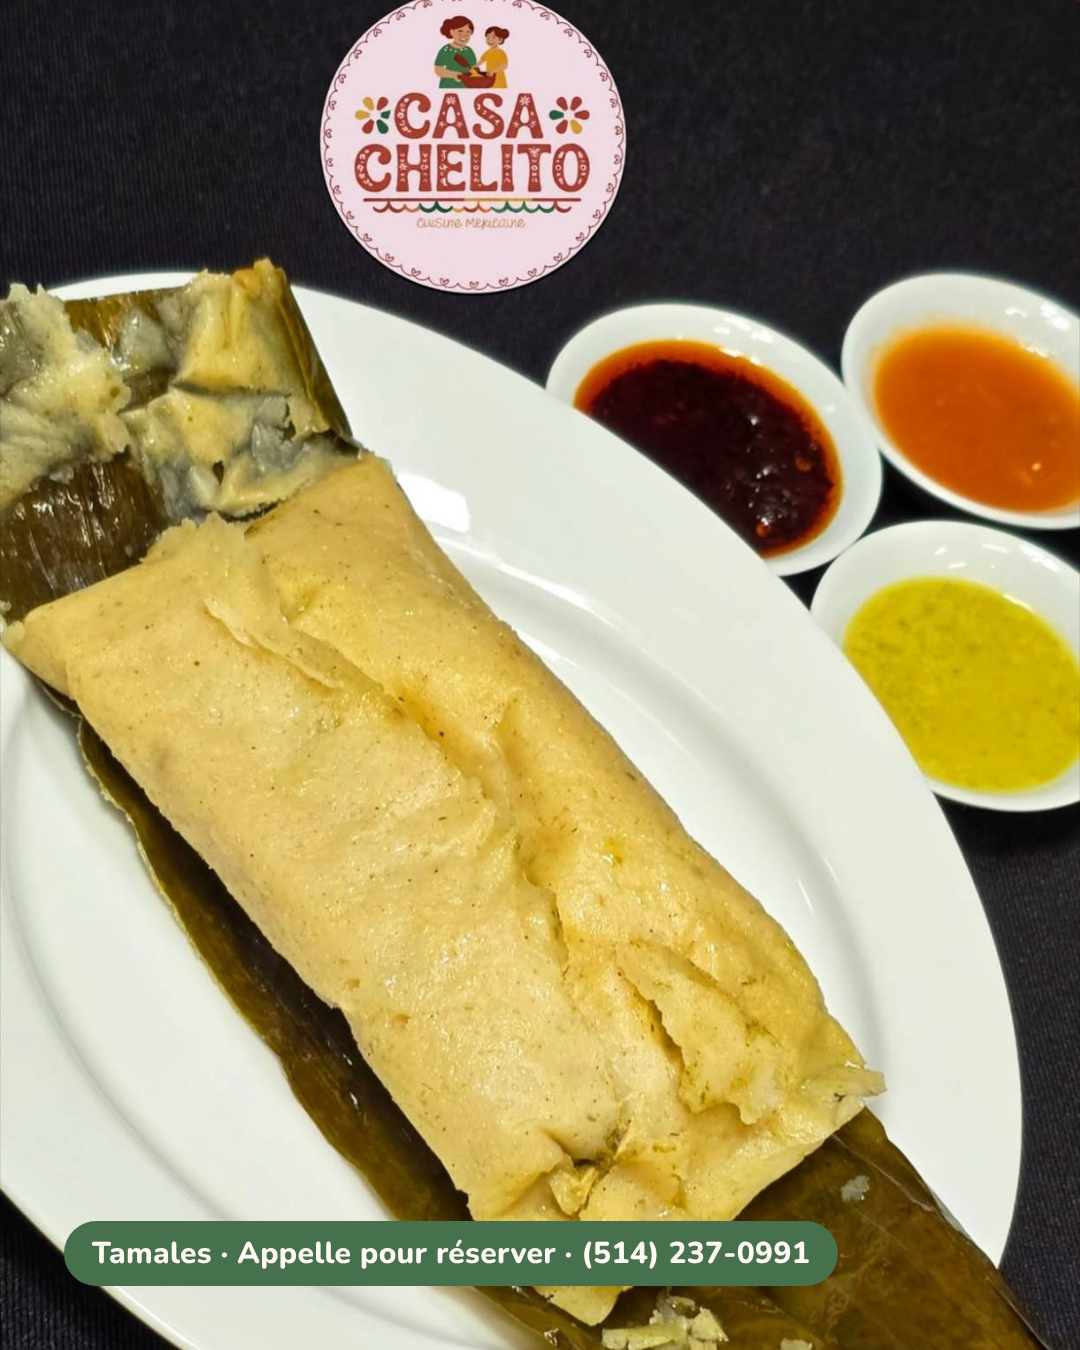
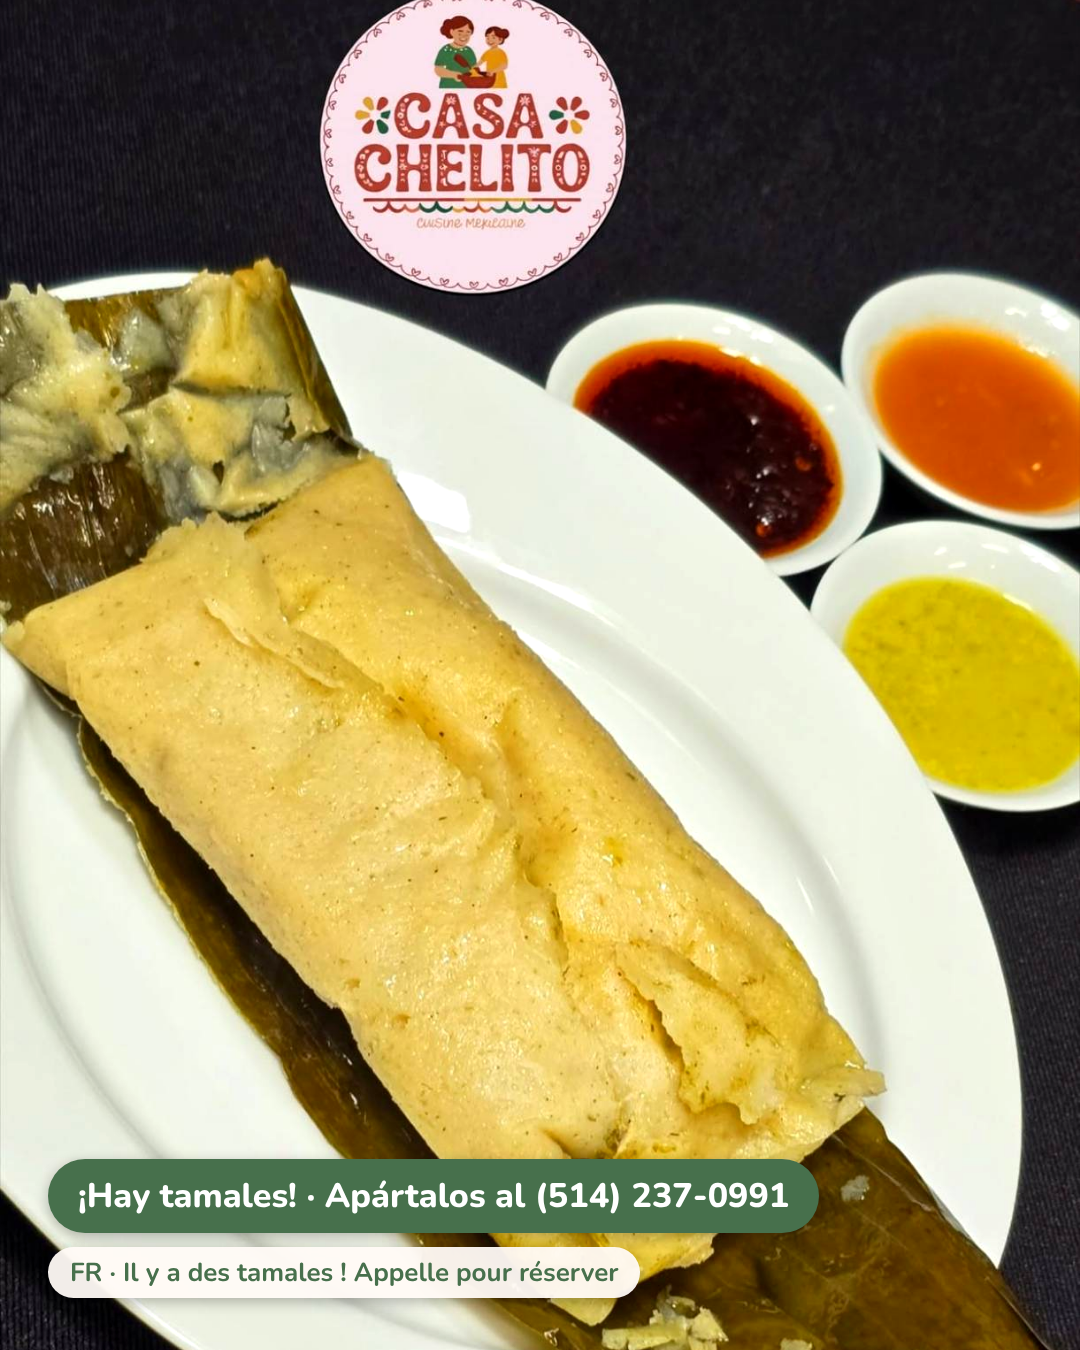
Rediseñar piezas de redes: foto limpia y español primero
Las imágenes ahora usan la foto a pantalla completa con etiquetas
pequeñas encima (sin paneles tipo sitio web), con el español como texto
principal y el francés como nota.

Claude-Session: https://claude.ai/code/session_01UmYvMaUdBeMewG3WqqKD7a

Changed region(s): [[0.0306, 0.84, 0.7944, 0.9644]]

diff --git a/tools/redes.py b/tools/redes.py
@@ -4,7 +4,8 @@
 Uso:  python3 tools/redes.py            → redes/<mes>/*.png
       python3 tools/redes.py paletas    → solo las piezas cuyo nombre contiene "paletas"
 
-Cada pieza es HTML + CSS con las fuentes, colores y fotos del sitio, capturada con
+Cada pieza es la foto a pantalla completa con el texto encima (español primero, francés
+debajo), hecha en HTML + CSS, capturada con
 Chromium (Playwright) a 1080 × 1350 (feed 4:5) o 1080 × 1920 (historia 9:16).
 """
 import json
@@ -22,9 +23,8 @@ FEED = (1080, 1350)
 HISTORIA = (1080, 1920)
 
 TELEFONO = "(514) 237-0991"
-DIRECCION = "7351, rue Jarry Est · Montréal"
-HORARIO_FR = "Lun–sam 10 h–20 h · dim 10 h–19 h"
-HORARIO_ES = "Lun–sáb 10–20 h · dom 10–19 h"
+DIRECCION = "7351 Rue Jarry Est, Montréal"
+HORARIO_ES = "Lunes a sábado 10–20 h · Domingo 10–19 h"
 
 
 def foto(nombre):
@@ -32,208 +32,140 @@ def foto(nombre):
 
 
 LOGO = (SRC / "images" / "logo.png").as_uri()
-PICADO = (SRC / "css" / "papel-picado.svg").as_uri()
 FUENTES = (SRC / "fonts").as_uri()
 
 CSS = f"""
 @font-face {{ font-family: "Lilita One"; src: url("{FUENTES}/lilita-one-latin.woff2"); }}
 @font-face {{ font-family: "Nunito"; src: url("{FUENTES}/nunito-latin.woff2"); font-weight: 400 800; }}
 @font-face {{ font-family: "Pacifico"; src: url("{FUENTES}/pacifico-latin.woff2"); }}
-:root {{
-  --rosa: #ead2df; --rosa-claro: #f7ecf2; --crema: #fffaf6;
-  --rojo: #a64033; --rojo-oscuro: #7a2e24; --verde: #47704c;
-  --mostaza: #e0a23b; --naranja: #e9843e; --naranja-texto: #a84b14; --texto: #4a2620;
-}}
 * {{ box-sizing: border-box; margin: 0; padding: 0; }}
-body {{ background: #333; }}
-.lienzo {{ position: relative; overflow: hidden; font-family: "Nunito", sans-serif; color: var(--texto); }}
-.foto {{ position: absolute; inset: 0; width: 100%; height: 100%; object-fit: cover; }}
-.picado {{ position: absolute; left: 0; right: 0; top: 0; height: 96px;
-  background: url("{PICADO}") repeat-x top left / auto 96px; z-index: 3; }}
-.pill {{ position: absolute; left: 64px; top: 140px; z-index: 4; display: inline-block;
-  background: var(--verde); color: var(--crema); font-weight: 800; font-size: 30px;
-  padding: 12px 28px; border-radius: 999px; letter-spacing: .3px; }}
-.sello {{ position: absolute; right: 44px; bottom: 44px; width: 132px; height: 132px; border-radius: 50%;
-  z-index: 5; box-shadow: 0 6px 18px rgba(0,0,0,.25); background: var(--rosa); }}
-.titulo {{ font-family: "Lilita One", sans-serif; color: var(--rojo); line-height: 1.02; letter-spacing: .5px; }}
-.es {{ font-weight: 700; color: var(--verde); }}
-.script {{ font-family: "Pacifico", cursive; color: var(--naranja-texto); }}
-.puntos {{ width: 180px; height: 14px; margin: 26px 0;
-  background: radial-gradient(circle at 7px 7px, var(--rojo) 6px, transparent 7px) 0 0 / 28px 14px repeat-x; }}
-.panel {{ position: absolute; left: 0; right: 0; bottom: 0; background: var(--rosa); padding: 56px 64px 60px; z-index: 2; }}
-.panel::before {{ content: ""; position: absolute; left: 0; right: 0; top: -1px; height: 0; }}
-.datos {{ font-size: 28px; font-weight: 700; color: var(--rojo-oscuro); }}
-.numero {{ position: absolute; left: 64px; top: 64px; z-index: 4; width: 170px; height: 170px; border-radius: 50%;
-  background: var(--crema); color: var(--rojo); font-family: "Lilita One"; font-size: 120px;
-  display: grid; place-items: center; box-shadow: 0 8px 24px rgba(0,0,0,.3); padding-top: 6px; }}
-.etiqueta {{ position: absolute; left: 64px; bottom: 64px; z-index: 4; background: var(--crema);
-  border-radius: 24px; padding: 22px 32px; box-shadow: 0 8px 24px rgba(0,0,0,.25); }}
-.lista {{ list-style: none; }}
-.lista li {{ display: flex; align-items: baseline; gap: 18px; font-size: 44px; font-weight: 800;
-  padding: 14px 0; border-bottom: 3px dashed rgba(166,64,51,.25); }}
-.lista li span {{ font-size: 30px; font-weight: 700; color: var(--verde); }}
-.marco {{ border: 12px solid var(--crema); border-radius: 36px; overflow: hidden; box-shadow: 0 12px 30px rgba(0,0,0,.2); }}
+body {{ background: #222; }}
+.lienzo {{ position: relative; overflow: hidden; font-family: "Nunito", sans-serif; color: #fff; background: #222; }}
+.foto {{ position: absolute; inset: 0; width: 100%; height: 100%; object-fit: cover;
+  filter: saturate(1.08) contrast(1.04) brightness(1.03); }}
+.sello {{ position: absolute; right: 40px; top: 40px; width: 120px; height: 120px; border-radius: 50%;
+  box-shadow: 0 4px 16px rgba(0,0,0,.3); }}
+.etiquetas {{ position: absolute; left: 48px; right: 48px; bottom: 52px; display: flex; flex-direction: column;
+  align-items: flex-start; gap: 14px; }}
+.pastilla {{ display: inline-block; border-radius: 999px; box-shadow: 0 4px 14px rgba(0,0,0,.28); }}
+.pastilla.verde {{ background: #47704c; color: #fff; font-weight: 800; font-size: 34px; padding: 14px 30px; }}
+.pastilla.nota {{ background: rgba(255,250,246,.95); color: #47704c; font-weight: 700; font-size: 26px; padding: 8px 22px; }}
+.pastilla.roja {{ background: #a64033; color: #fff; font-weight: 800; font-size: 28px; padding: 10px 24px; }}
+.pastilla.titulo {{ background: #fffaf6; color: #a64033; font-family: "Lilita One"; font-size: 72px;
+  line-height: 1.05; padding: 18px 40px 14px; border-radius: 40px; }}
+.pastilla.titulo small {{ display: block; font-family: "Nunito"; font-weight: 700; font-size: 30px; color: #47704c; }}
+.chips {{ display: flex; flex-wrap: wrap; gap: 12px; }}
+.chips span {{ background: rgba(255,250,246,.96); color: #7a2e24; font-weight: 800; font-size: 32px;
+  padding: 9px 22px; border-radius: 999px; box-shadow: 0 3px 10px rgba(0,0,0,.22); }}
+.chips small {{ font-size: 21px; font-weight: 700; color: #47704c; margin-left: 8px; }}
+.numero {{ position: absolute; left: 48px; top: 48px; width: 140px; height: 140px; border-radius: 50%;
+  background: #fffaf6; color: #a64033; font-family: "Lilita One"; font-size: 100px;
+  display: grid; place-items: center; box-shadow: 0 6px 20px rgba(0,0,0,.3); padding-top: 6px; }}
 """
 
 
-def pagina(cuerpo, ancho, alto, fondo="var(--crema)"):
+def pagina(cuerpo, ancho, alto):
     return (f'<!doctype html><html><head><meta charset="utf-8"><style>{CSS}</style></head>'
-            f'<body><div class="lienzo" style="width:{ancho}px;height:{alto}px;background:{fondo}">{cuerpo}</div></body></html>')
+            f'<body><div class="lienzo" style="width:{ancho}px;height:{alto}px">{cuerpo}</div></body></html>')
 
 
 def sello():
     return f'<img class="sello" src="{LOGO}" alt="">'
 
 
+def publicacion(nombre_foto, pos, linea, titulo="", sub="", previa="", chips=None, numero=None, nota="",
+                tamano=FEED, logo=True, abajo=52):
+    """La foto manda: imagen limpia a pantalla completa y etiquetas pequeñas encima.
+
+    titulo/sub → tarjeta crema (español grande, francés pequeño); linea → pastilla verde;
+    previa → pastilla roja arriba de todo; chips → sabores.
+    """
+    partes = []
+    if previa:
+        partes.append(f'<div class="pastilla roja">{previa}</div>')
+    if titulo:
+        partes.append(f'<div class="pastilla titulo">{titulo}' + (f"<small>{sub}</small>" if sub else "") + "</div>")
+    if chips:
+        partes.append('<div class="chips">' + "".join(
+            f"<span>{es}" + (f"<small>{fr}</small>" if fr else "") + "</span>" for es, fr in chips) + "</div>")
+    if linea:
+        partes.append(f'<div class="pastilla verde">{linea}</div>')
+    if nota:
+        partes.append(f'<div class="pastilla nota">{nota}</div>')
+    return pagina(f"""
+      <img class="foto" src="{foto(nombre_foto)}" style="object-position:{pos}">
+      {f'<div class="numero">{numero}</div>' if numero else ""}
+      {sello() if logo else ""}
+      <div class="etiquetas" style="bottom:{abajo}px">{"".join(partes)}</div>""", *tamano)
+
+
 # ---------------------------------------------------------------- Piezas
 
 def carrusel_paletas():
-    """Jue 5 nov · C. Educational · «Les paletas, 101»."""
-    piezas = {}
-    piezas["paletas-101-1-portada"] = pagina(f"""
-      <img class="foto" src="{foto('paletas-fila')}" style="height:880px;object-position:50% 62%">
-      <div class="picado"></div>
-      <div class="pill">Le saviez-vous? · ¿Sabías que…?</div>
-      <div class="panel" style="height:500px">
-        <div class="titulo" style="font-size:132px">Les paletas,<br>101</div>
-        <div class="puntos"></div>
-        <div class="script" style="font-size:46px">Agua, chamoy o crema</div>
-      </div>
-      {sello()}""", *FEED)
-
-    def lamina(n, color, fr, es, nota_fr, nota_es, sabores, foto_nombre, pos):
-        filas = "".join(f"<li>{a}<span>{b}</span></li>" for a, b in sabores)
-        return pagina(f"""
-          <div style="position:absolute;inset:0 0 auto 0;height:14px;background:{color}"></div>
-          <div style="position:absolute;left:64px;top:84px;font-family:'Lilita One';font-size:40px;color:{color}">{n} / 3</div>
-          <div class="titulo" style="position:absolute;left:64px;top:140px;font-size:92px;color:{color}">{fr}</div>
-          <div class="es" style="position:absolute;left:66px;top:248px;font-size:40px">{es}</div>
-          <div style="position:absolute;left:66px;top:318px;width:600px;font-size:31px;line-height:1.35">{nota_fr}<br>
-            <span class="es" style="font-size:27px">{nota_es}</span></div>
-          <ul class="lista" style="position:absolute;left:64px;top:500px;width:560px">{filas}</ul>
-          <div class="marco" style="position:absolute;right:-60px;top:420px;width:470px;height:640px;transform:rotate(3deg)">
-            <img src="{foto(foto_nombre)}" style="width:100%;height:100%;object-fit:cover;object-position:{pos}"></div>
-          {sello()}""", *FEED)
-
-    piezas["paletas-101-2-agua"] = lamina(
-        1, "var(--verde)", "À base d'eau", "Base de agua",
-        "Fruitées et rafraîchissantes.", "Frutales y refrescantes.",
-        [("Mangue", "Mango"), ("Fraise", "Fresa"), ("Tamarin", "Tamarindo"), ("Ananas", "Piña"), ("Lime", "Limón")],
-        "paleta-verde", "45% 50%")
-    piezas["paletas-101-3-chamoy"] = lamina(
-        2, "var(--rojo)", "Avec chamoy", "Con chamoy",
-        "Le chamoy : une sauce sucrée, salée et piquante.", "Dulce, saladito y enchilado.",
-        [("Mangue", "Mango"), ("Ananas", "Piña"), ("Fraise", "Fresa"), ("Tamarin", "Tamarindo"), ("Lime", "Limón")],
-        "paletas-colores", "60% 60%")
-    crema = [("Coco", "Coco"), ("Fraise", "Fresa"), ("Rompope", "Rompope"), ("Pacane", "Nuez"), ("Pistache", "Pistache"),
-             ("Vanille", "Vainilla"), ("Oreo", "Oreo"), ("Chocolat", "Chocolate"), ("Mangue", "Mango")]
-    filas = "".join(f'<li style="font-size:38px;padding:9px 0">{a}<span>{b}</span></li>' for a, b in crema)
-    piezas["paletas-101-4-crema"] = pagina(f"""
-      <div style="position:absolute;inset:0 0 auto 0;height:14px;background:#c25a7c"></div>
-      <div style="position:absolute;left:64px;top:84px;font-family:'Lilita One';font-size:40px;color:#c25a7c">3 / 3</div>
-      <div class="titulo" style="position:absolute;left:64px;top:140px;font-size:92px;color:#b04a6c">À la crème</div>
-      <div class="es" style="position:absolute;left:66px;top:248px;font-size:40px">Base de crema</div>
-      <div style="position:absolute;left:66px;top:318px;width:900px;font-size:31px;line-height:1.35">Onctueuses, comme une crème glacée sur bâton.<br>
-        <span class="es" style="font-size:27px">Cremositas, para los golosos.</span></div>
-      <ul class="lista" style="position:absolute;left:64px;top:470px;width:520px">{filas}</ul>
-      <div class="marco" style="position:absolute;right:-50px;top:470px;width:450px;height:600px;transform:rotate(-3deg)">
-        <img src="{foto('paletas-sobre-congelador')}" style="width:100%;height:100%;object-fit:cover;object-position:35% 50%"></div>
-      {sello()}""", *FEED, fondo="var(--rosa-claro)")
-    piezas["paletas-101-5-cierre"] = pagina(f"""
-      <img class="foto" src="{foto('paletas-acomodadas')}" style="object-position:55% 50%">
-      <div style="position:absolute;inset:0;background:linear-gradient(180deg,rgba(0,0,0,0) 35%,rgba(122,46,36,.92) 75%)"></div>
-      <div style="position:absolute;left:64px;right:64px;bottom:96px;z-index:2;color:var(--crema)">
-        <div class="titulo" style="color:var(--crema);font-size:104px">Laquelle<br>tu essaies?</div>
-        <div style="font-size:44px;font-weight:800;margin:14px 0 30px;color:var(--rosa)">¿Cuál vas a probar?</div>
-        <div style="font-size:30px;font-weight:700">{DIRECCION}<br>{HORARIO_FR}</div>
-      </div>
-      {sello()}""", *FEED)
-    return piezas
+    """Jue 5 nov · C. Educativo · «Paletas 101»."""
+    agua = [("Mango", "mangue"), ("Fresa", "fraise"), ("Tamarindo", "tamarin"), ("Piña", "ananas"), ("Limón", "lime")]
+    crema = [("Coco", ""), ("Fresa", "fraise"), ("Rompope", ""), ("Nuez", "pacane"), ("Pistache", ""),
+             ("Vainilla", "vanille"), ("Oreo", ""), ("Chocolate", "chocolat"), ("Mango", "mangue")]
+    return {
+        "paletas-101-1-portada": publicacion(
+            "paletas-fila", "50% 60%", "Desliza y elige la tuya →",
+            titulo="Paletas 101", sub="De agua, con chamoy o de crema · eau, chamoy ou crème", previa="¿Sabías que…?"),
+        "paletas-101-2-agua": publicacion(
+            "paleta-verde", "45% 50%", "Frutales y refrescantes · fruitées",
+            titulo="De agua", sub="À base d'eau", previa="1 / 3", chips=agua),
+        "paletas-101-3-chamoy": publicacion(
+            "paletas-colores", "55% 55%", "Dulce, saladito y enchilado · sucré, salé, piquant",
+            titulo="Con chamoy", sub="Avec chamoy", previa="2 / 3", chips=agua),
+        "paletas-101-4-crema": publicacion(
+            "paletas-sobre-congelador", "40% 50%", "Cremositas · onctueuses",
+            titulo="De crema", sub="À la crème", previa="3 / 3", chips=crema),
+        "paletas-101-5-cierre": publicacion(
+            "paletas-acomodadas", "55% 50%", DIRECCION, nota=HORARIO_ES,
+            titulo="¿Cuál vas a probar?", sub="Laquelle tu essaies ?"),
+    }
 
 
 def carrusel_conchas():
-    """Jue 12 nov · D. Engagement · «Laquelle en premier?»."""
-    panes = [("concha-con-leche", "62% 70%", "Concha", "classique · clásica"),
-             ("concha-rosa", "35% 40%", "Concha rose", "concha de color"),
-             ("pan-de-muerto-concha", "50% 45%", "Pan de muerto", "con cubierta de concha")]
-    piezas = {}
-    tiras = "".join(f'<div class="marco" style="flex:1;height:620px;transform:rotate({r}deg)">'
-                    f'<img src="{foto(n)}" style="width:100%;height:100%;object-fit:cover;object-position:{p}"></div>'
-                    for (n, p, _, _), r in zip(panes, (-3, 1.5, -1)))
-    piezas["conchas-1-portada"] = pagina(f"""
-      <div class="picado"></div>
-      <div class="pill" style="background:var(--rojo)">Vote · Vota</div>
-      <div class="titulo" style="position:absolute;left:64px;top:230px;font-size:120px">Laquelle<br>en premier?</div>
-      <div class="es" style="position:absolute;left:68px;top:500px;font-size:48px">¿Cuál agarras primero?</div>
-      <div style="position:absolute;left:44px;right:44px;top:610px;display:flex;gap:26px">{tiras}</div>
-      {sello()}""", *FEED, fondo="var(--rosa)")
-    for i, (n, p, fr, es) in enumerate(panes, start=1):
-        piezas[f"conchas-{i + 1}-opcion-{i}"] = pagina(f"""
-          <img class="foto" src="{foto(n)}" style="object-position:{p}">
-          <div class="numero">{i}</div>
-          <div class="etiqueta"><div class="titulo" style="font-size:64px">{fr}</div>
-            <div class="es" style="font-size:32px">{es}</div></div>
-          {sello()}""", *FEED)
-    piezas["conchas-5-cierre"] = pagina(f"""
-      <div class="picado"></div>
-      <div style="position:absolute;inset:0;display:flex;flex-direction:column;justify-content:center;align-items:center;text-align:center;padding:0 80px">
-        <div class="script" style="font-size:52px">Ton café t'attend</div>
-        <div class="titulo" style="font-size:118px;margin:20px 0">Commente<br>1, 2 ou 3</div>
-        <div class="es" style="font-size:46px">Comenta tu número</div>
-        <div class="puntos" style="margin:40px auto"></div>
-        <div class="datos">Résultats vendredi en story · Resultados el viernes</div>
-      </div>
-      {sello()}""", *FEED, fondo="var(--crema)")
+    """Jue 12 nov · D. Interacción · «¿Cuál agarras primero?»."""
+    panes = [("concha-con-leche", "62% 70%", "Concha clásica · la classique"),
+             ("concha-rosa", "35% 40%", "Concha de color · concha colorée"),
+             ("pan-de-muerto-concha", "50% 45%", "Pan de muerto de concha · avec croûte de concha")]
+    piezas = {
+        "conchas-1-portada": publicacion(
+            "pan-de-muerto-concha", "50% 40%", "Desliza y comenta 1, 2 o 3 →",
+            titulo="¿Cuál agarras primero?", sub="Laquelle en premier ?", previa="Vota en comentarios"),
+    }
+    for i, (n, p, linea) in enumerate(panes, start=1):
+        piezas[f"conchas-{i + 1}-opcion-{i}"] = publicacion(n, p, linea, numero=i)
+    piezas["conchas-5-cierre"] = publicacion(
+        "tienda-pan-estantes", "100% 50%", "El viernes contamos los votos en historias",
+        titulo="Comenta 1, 2 o 3", sub="Commente ton numéro !")
     return piezas
 
 
 def livraison():
-    """Jue 19 nov · E. Promotional · «On livre!»."""
-    def cuerpo(alto_foto, tam):
-        return f"""
-          <img class="foto" src="{foto('tienda-mostrador')}" style="height:{alto_foto}px;object-position:50% 60%">
-          <div class="picado"></div>
-          <div class="pill">Livraison · A domicilio</div>
-          <div class="panel" style="top:{alto_foto - 40}px;border-radius:40px 40px 0 0">
-            <div class="titulo" style="font-size:{tam}px">On livre!</div>
-            <div class="es" style="font-size:{int(tam * .42)}px;margin-top:6px">¡Te lo llevamos! · We deliver!</div>
-            <div class="puntos"></div>
-            <div style="font-size:30px;font-weight:700;margin-bottom:10px">Appelle-nous · Llámanos</div>
-            <div class="titulo" style="font-size:{int(tam * .9)}px;color:var(--rojo-oscuro)">{TELEFONO}</div>
-            <div class="datos" style="margin-top:22px">{HORARIO_FR}<br>{DIRECCION}</div>
-          </div>
-          {sello()}"""
+    """Jue 19 nov · E. Promoción · «¡Te lo llevamos a casa!»."""
+    comun = dict(titulo=f"¡Te lo llevamos a casa!<br>{TELEFONO}", sub="On livre ! Appelle-nous",
+                 previa="Pedidos por teléfono")
     return {
-        "livraison-feed": pagina(cuerpo(660, 116), *FEED),
-        "livraison-historia": pagina(cuerpo(860, 150), *HISTORIA),
+        "livraison-feed": publicacion("tienda-mostrador", "50% 55%", HORARIO_ES, **comun),
+        "livraison-historia": publicacion("tienda-mostrador", "45% 50%", HORARIO_ES, tamano=HISTORIA,
+                                          abajo=320, **comun),
     }
 
 
 def sueltas():
     """Banco: publicaciones de una sola foto."""
-    def suelta(nombre_foto, pos, pill, titulo, es, color_pill="var(--verde)", alto=900):
-        return pagina(f"""
-          <img class="foto" src="{foto(nombre_foto)}" style="height:{alto}px;object-position:{pos}">
-          <div class="pill" style="background:{color_pill}">{pill}</div>
-          <div class="panel" style="top:{alto - 40}px;border-radius:40px 40px 0 0">
-            <div class="titulo" style="font-size:70px">{titulo}</div>
-            <div class="es" style="font-size:36px;margin-top:12px">{es}</div>
-          </div>
-          {sello()}""", *FEED)
-
     return {
-        "nostalgia-gansito": suelta("gansito-marias", "40% 70%", "Nostalgia",
-                                    "Si comiste esto de niño,<br>eres de los nuestros",
-                                    "Les collations de notre enfance sont ici.", "var(--rojo)"),
-        "nostalgia-carrito": suelta("carrito-paletero", "60% 40%", "Nostalgia",
-                                    "El carrito paletero<br>también emigró",
-                                    "Au Mexique, le chariot à paletas passe dans la rue.", "var(--rojo)"),
-        "nostalgia-fabuloso": suelta("hogar-limpieza", "55% 45%", "Nostalgia",
-                                     "Si tu casa olía a Fabuloso<br>los sábados…",
-                                     "Les incontournables d'une maison mexicaine.", "var(--rojo)"),
-        "tamales": pagina(f"""
-          <img class="foto" src="{foto('tamal')}" style="object-position:50% 4%">
-          <div class="pill" style="top:auto;bottom:64px">Tamales · Appelle pour réserver · {TELEFONO}</div>""", *FEED),
+        "nostalgia-gansito": publicacion("gansito-marias", "40% 60%",
+                                         "Si comiste esto de niño, eres de los nuestros",
+                                         nota="FR · Les collations de notre enfance"),
+        "nostalgia-carrito": publicacion("carrito-paletero", "62% 40%", "El carrito paletero también emigró",
+                                         nota="FR · Le chariot à paletas, comme au Mexique"),
+        "nostalgia-fabuloso": publicacion("hogar-limpieza", "55% 45%", "Si tu casa olía a Fabuloso los sábados…",
+                                          nota="FR · Les incontournables d'une maison mexicaine"),
+        "tamales": publicacion("tamal", "50% 4%", f"¡Hay tamales! · Apártalos al {TELEFONO}",
+                               nota="FR · Il y a des tamales ! Appelle pour réserver", logo=False),
     }
 
 

diff --git a/redes/README.md b/redes/README.md
@@ -1,6 +1,7 @@
 # Redes sociales — Casa Chelito × FORJADO
 
 Imágenes listas para publicar en Instagram y Facebook, según la estrategia de FORJADO.
+Estilo: la foto limpia a pantalla completa con etiquetas pequeñas encima; español primero y francés como nota.
 
 - Feed: 1080 × 1350 (4:5). Historias: 1080 × 1920 (9:16).
 - Se generan con `python3 tools/redes.py` a partir de las fotos de `src/images/`,
@@ -11,7 +12,7 @@ Imágenes listas para publicar en Instagram y Facebook, según la estrategia de 
 
 | Fecha | Pieza | Archivos |
 | --- | --- | --- |
-| Jue 5 nov | Carrusel «Les paletas, 101» | `paletas-101-1` a `-5` |
-| Jue 12 nov | Carrusel «Laquelle en premier?» | `conchas-1` a `-5` |
-| Jue 19 nov | «On livre!» (feed + historia) | `livraison-feed`, `livraison-historia` |
+| Jue 5 nov | Carrusel «Paletas 101» | `paletas-101-1` a `-5` |
+| Jue 12 nov | Carrusel «¿Cuál agarras primero?» | `conchas-1` a `-5` |
+| Jue 19 nov | «¡Te lo llevamos a casa!» (feed + historia) | `livraison-feed`, `livraison-historia` |
 | Banco | Nostalgia y tamales | `nostalgia-*`, `tamales` |
